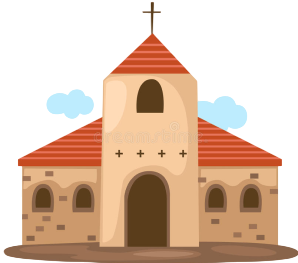
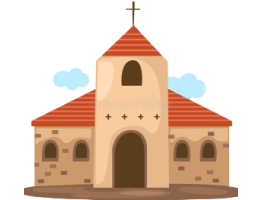
В адаптиве убрал блок в footer-е и заменил картинки

diff --git a/tailwind.config.js b/tailwind.config.js
@@ -16,6 +16,10 @@ export default {
             fontFamily: {
                 sans: ['Figtree', ...defaultTheme.fontFamily.sans],
             },
+            screens: {
+                'es': '280px',
+                'ms': '430px',
+            },
         },
     },
 

diff --git a/resources/views/home.blade.php b/resources/views/home.blade.php
@@ -54,9 +54,9 @@
                                 <p class="m-1 lg:m-2 text-sm lg:text-lg font-bold" style="line-height:1.25rem;">Интересные
                                     места, церкви</p>
                                 <p class="mx-1 lg:mx-2 text-xs lg:text-base font-light">Интересные места</p>
-                                <div class="p-3 mt-1 lg:mt-8">
-                                    <img class="flex self-center m-auto rounded-xl sm:w-[36%] md:w-[70%]"
-                                        src="{{ url('/image/church.png') }}" alt="church">
+                                <div class="p-3 mt-2 sm:mt-8">
+                                    <img class="flex self-center m-auto rounded-xl h-[75%] es:h-[100%] ms:h-[80%] sm:h-[55%] md:h-[100%] lg:h-[84%]"
+                                         src="{{ url('/image/church.png') }}" alt="banner">
                                 </div>
                             </div>
                         </a>
@@ -71,8 +71,8 @@
                                 <p class="m-1 lg:m-2 text-sm lg:text-lg font-bold" style="line-height:1.25rem;">Кружки,
                                     сообщества</p>
                                 <p class="mx-1 lg:mx-2 text-xs lg:text-base font-light">Сообщества, группы по интересам</p>
-                                <div class="p-3 mt-8">
-                                    <img class="flex self-center m-auto rounded-xl sm:w-[70%] md:w-[100%]"
+                                <div class="">
+                                    <img class="flex self-center m-auto rounded-xl w-[75%] es:w-[100%] ms:w-[80%] sm:w-[64%] md:w-[100%] lg:w-[90%]"
                                         src="{{ url('/image/group-of-young-people-waving-hand.png') }}" alt="friends">
                                 </div>
                             </div>
@@ -88,8 +88,8 @@
                                 <p class="m-1 lg:m-2 text-sm lg:text-lg font-bold" style="line-height:1.25rem;">Бизнес
                                     справочник</p>
                                 <p class="mx-1 lg:mx-2 text-xs lg:text-base font-light">Каталог товаров/услуг</p>
-                                <div class="p-3 mt-2 lg:mt-8">
-                                    <img class="flex self-center m-auto rounded-xl sm:w-[70%] md:w-[70%]"
+                                <div class="pt-12 sm:pt-7 ms:pt-8 2xl:pt-14 xl:pt-10 md:pt-12">
+                                    <img class="flex self-center m-auto rounded-xl w-[75%] es:w-[70%] ms:w-[60%] sm:w-[52%] md:w-[90%] lg:w-[80%]"
                                         src="{{ url('/image/building.png') }}" alt="banner">
                                 </div>
                             </div>
@@ -104,8 +104,8 @@
                             <div class="flex flex-col h-full w-full relative">
                                 <p class="m-1 lg:m-2 text-sm lg:text-base font-bold">Общины консульства</p>
                                 <p class="mx-1 lg:mx-2 text-xs lg:text-base font-light">Каталог товаров/услуг </p>
-                                <div class="p-3 mt-1 lg:mt-12">
-                                    <img class="flex self-center m-auto rounded-xl sm:w-[43%] md:w-[65%]"
+                                <div class="pt-12 sm:pt-7 ms:pt-8 md:pt-10 2xl:pt-14 xl:pt-10">
+                                    <img class="flex self-center m-auto rounded-xl w-[75%] es:w-[70%] ms:w-[60%] sm:w-[52%] md:w-[90%] lg:w-[75%]"
                                         src="{{ url('/image/university.png') }}" alt="like">
                                 </div>
                             </div>
@@ -122,7 +122,7 @@
                                 <p class="m-1 lg:m-2 text-sm lg:text-lg font-bold">Поиск работы</p>
                                 <p class="mx-1 lg:mx-2 text-xs lg:text-base font-light">Найти работу или разместить вакансию
                                 </p>
-                                <div class="p-3 mt-8">
+                                <div class="p-3 pt-8 lg:pt-5 2xl:pt-10 xl:pt-14">
                                     <img class="flex self-center m-auto rounded-xl sm:w-[70%] md:w-[100%]"
                                         src="{{ url('/image/to_find_job.png') }}" alt="banner">
                                 </div>

diff --git a/resources/views/layouts/footer.blade.php b/resources/views/layouts/footer.blade.php
@@ -30,7 +30,7 @@
                 <a href="{{ route('privacy-policy') }}" target="_blank" class="text-sm lg:text-md font-bold">Политика конфиденциальности</a>
             </div>
         </div>
-        <div class="flex basis-1/3">
+        <div class="sm:flex basis-1/3 hidden">
             <ul class="list-style-none flex flex-wrap lg:flex-col justify-center text-md lg:text-lg font-medium mx-auto py-10">
                 <li class="mb-2 text-center">
                     <a class="mx-2" href="">Проекты</a>
@@ -52,8 +52,8 @@
                 </li>
             </ul>
         </div>
-        <div class="flex flex-col basis-1/3 justify-center lg:justify-end">
-            
+        <div class="sm:flex flex-col basis-1/3 justify-center lg:justify-end hidden">
+
             <p class="text-center lg:text-right text-md lg:text-xl font-bold">
                 Оставайтесь в курсе последних обновлений
             </p>
